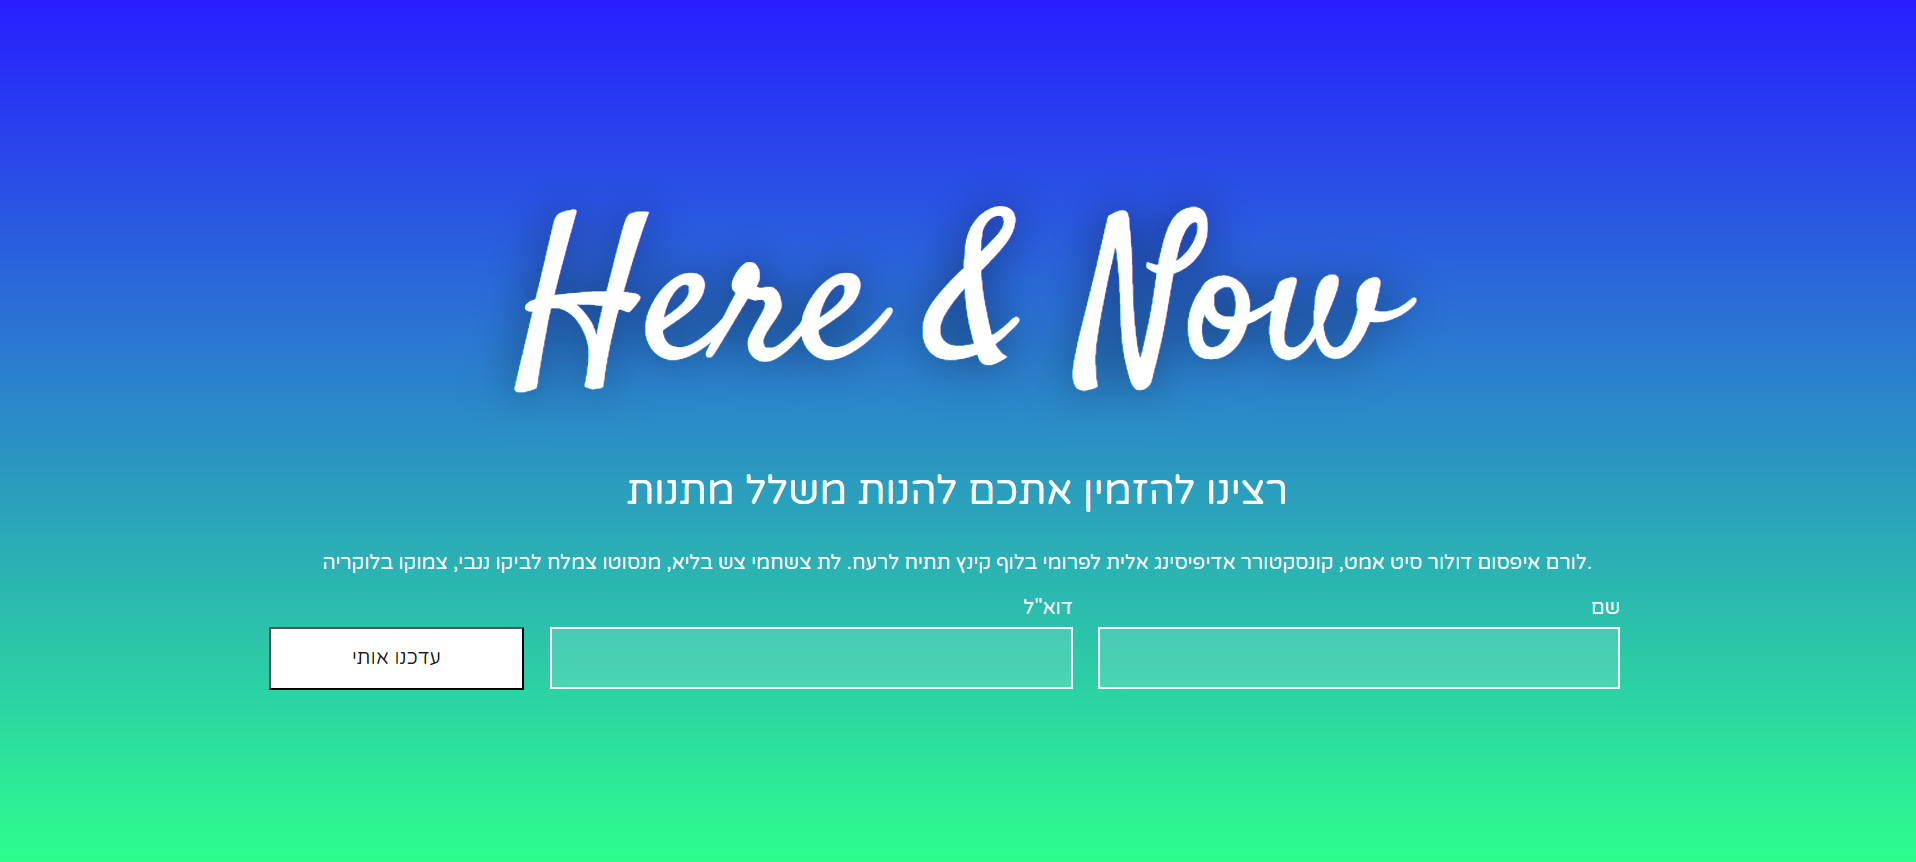
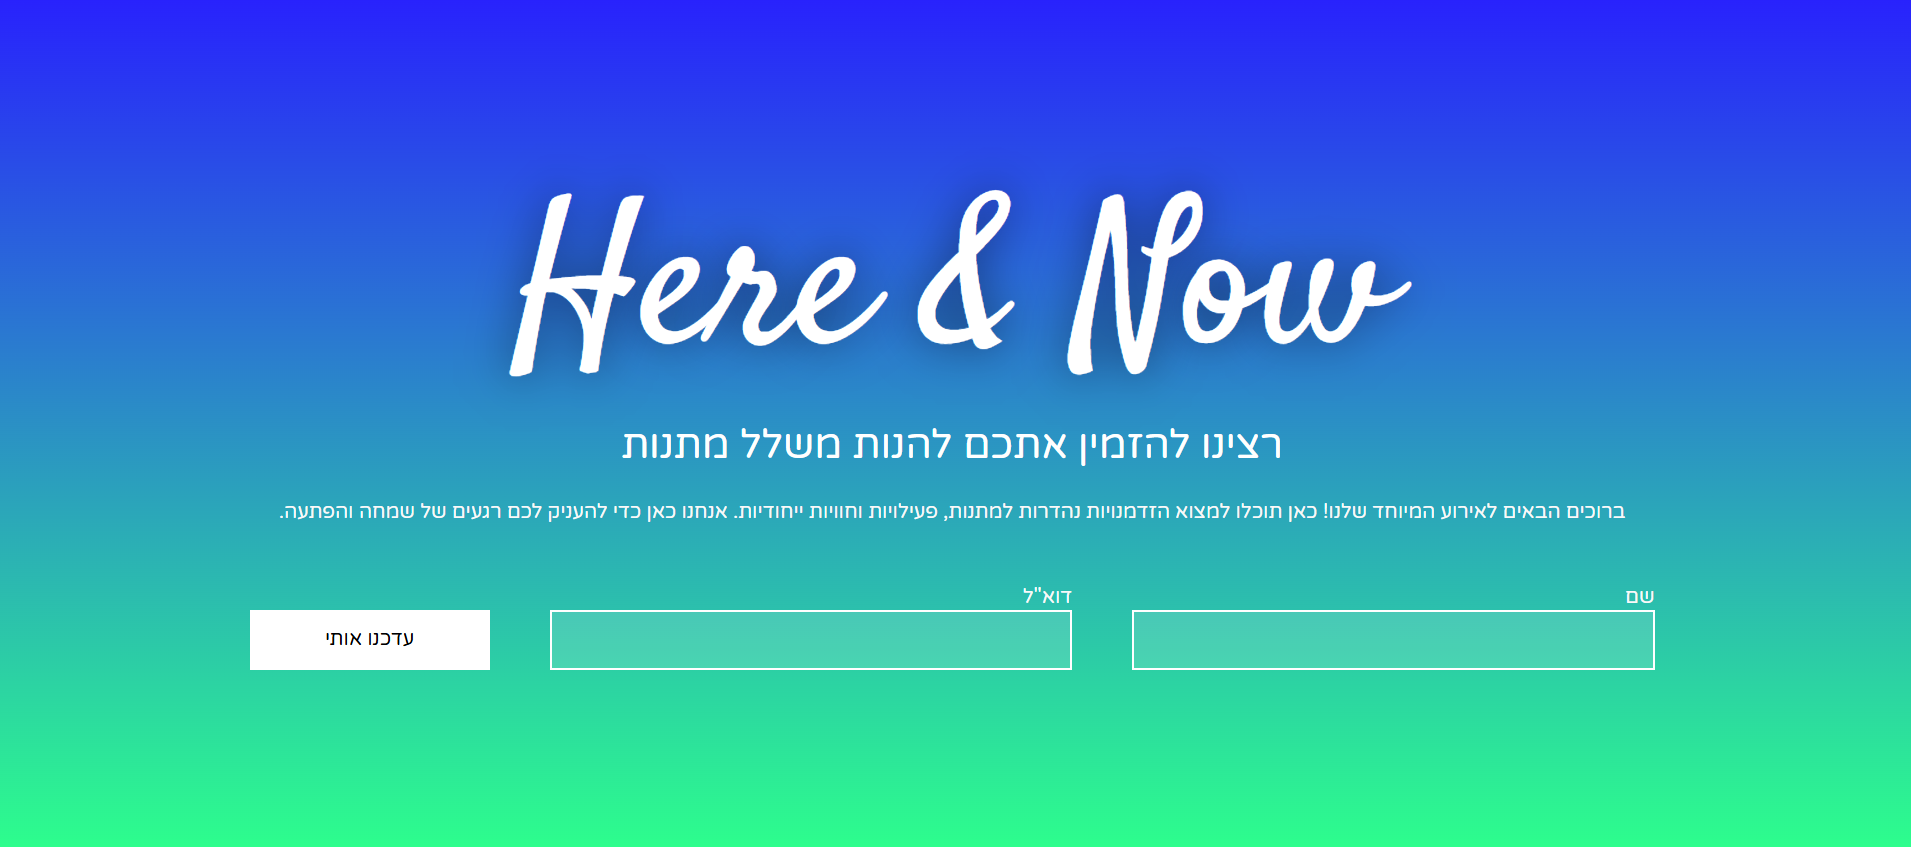
Update Leading Image

Changed region(s): [[0.247, 0.2149, 0.741, 0.4604], [0.1235, 0.6446, 0.8645, 0.7981], [0.1544, 0.4911, 0.8645, 0.6139]]

diff --git a/projects/DiscoverYourWorld.html b/projects/DiscoverYourWorld.html
@@ -1,5 +1,5 @@
 <!DOCTYPE html>
-<html lang="en">
+<html lang="en" dir="rtl">
 
 <head>
     <meta charset="UTF-8">
